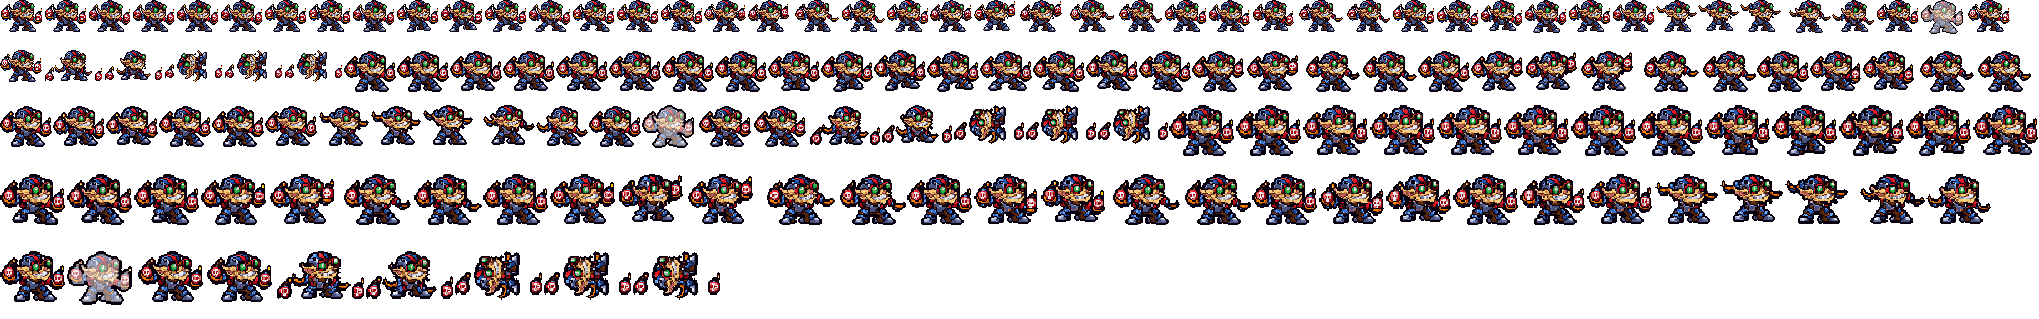
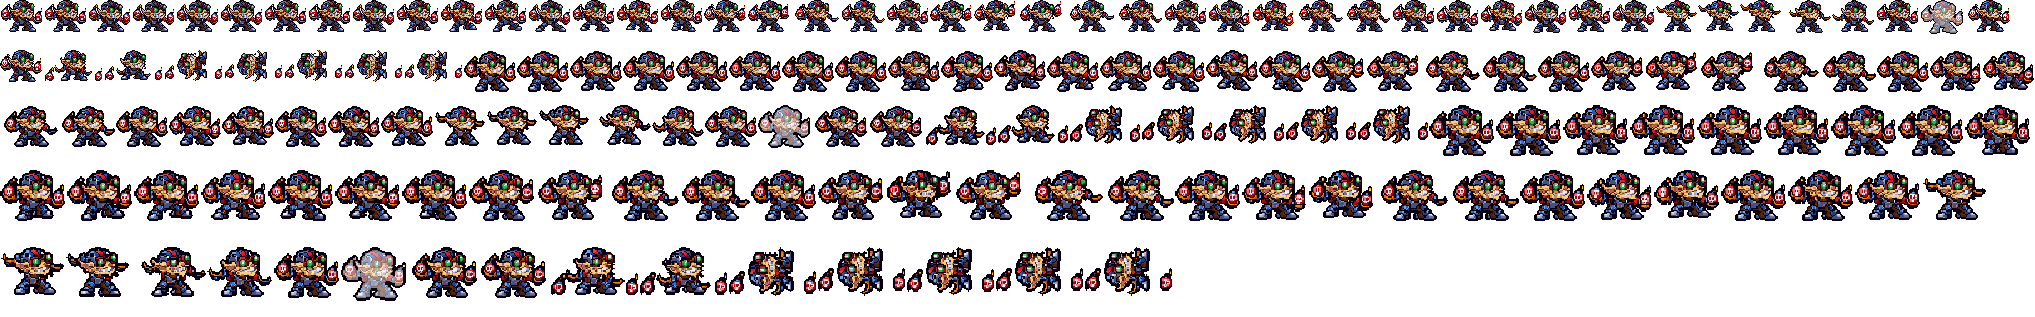
Ziggs: death 8 frames
2026-10-19 frame audit: his throws already raise the far hand up to 12 rows and R hops 3 rows, as League's. The
death lands from 2 rows up, lies, bounces a row, lies; the bombs stay where they fell. Every other tag
pixel-identical.

diff --git a/tools/art/rig_ziggs.py b/tools/art/rig_ziggs.py
@@ -249,7 +249,7 @@ def sheet(cans, path, z=4):
 # frame lengths (ms); League's Ziggs: attack 0.656/s (windup 20%), spells 0.25 s casts, R 0.375 s
 MS = {"idle": [140] * 8, "run": [110] * 8, "attack": [80, 80, 70, 100, 110], "skill": [70, 80, 70, 70, 110, 110],
       "skill2": [70, 80, 70, 110, 110], "skill_w": [70, 70, 90, 90, 80], "ult": [80, 90, 90, 70, 110, 160],
-      "hit": [100, 100], "dead": [100, 100, 120, 150, 200, 500]}
+      "hit": [100, 100], "dead": [100, 100, 120, 60, 100, 60, 140, 500]}
 
 # The idle's breath and the walk's bob (tools/art/idle_breathe.py's recipe, league_jarvaniv's dip): the figure above the
 # shins sinks a row, each leg one plain shin row shorter, the boots where they stand
@@ -308,8 +308,12 @@ def frames_all(F):
     sink = p(crouch=2, whole=(-1, 0), near_reach=(3, 3), far_reach=(-2, 2), **nb)
     sit = p(crouch=4, whole=(-1, 0), near_reach=(6, 6), far_reach=(-4, 5), **nb)
     # lying sunk 4 rows into the ground line (league_tahmkench's way): lower, it reads as fallen
-    lying = R.lie(F.rig, p(crouch=4, near_reach=(9, 4), far_reach=(-7, 1), **nb), k=1, dx=-2, sink=4)
-    out["dead"] = [p(whole=(-1, 0)), over(bombs, sink), over(bombs, sit), over(bombs, lying), over(bombs, lying),
+    body = p(crouch=4, near_reach=(9, 4), far_reach=(-7, 1), **nb)
+    lying = R.lie(F.rig, body, k=1, dx=-2, sink=4)
+    # (8 frames since the 2026-10-19 frame audit: he lands from 2 rows up, lies, bounces a row, lies - the bombs on the
+    # ground stay where they fell)
+    out["dead"] = [p(whole=(-1, 0)), over(bombs, sink), over(bombs, sit), over(bombs, R.lie(F.rig, body, k=1, dx=-2, sink=2)),
+                   over(bombs, lying), over(bombs, R.lie(F.rig, body, k=1, dx=-2, sink=3)), over(bombs, lying),
                    over(bombs, lying)]
     return out
 
